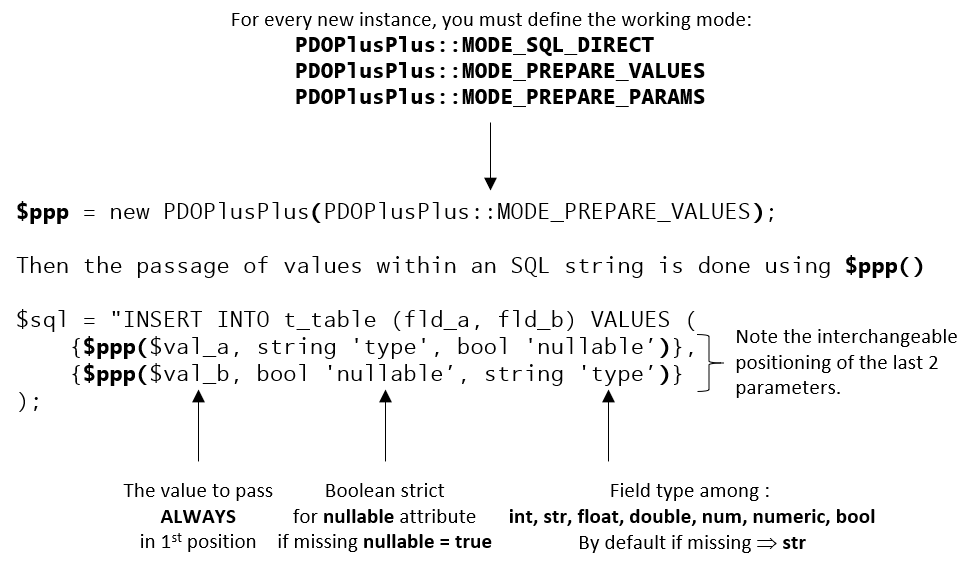
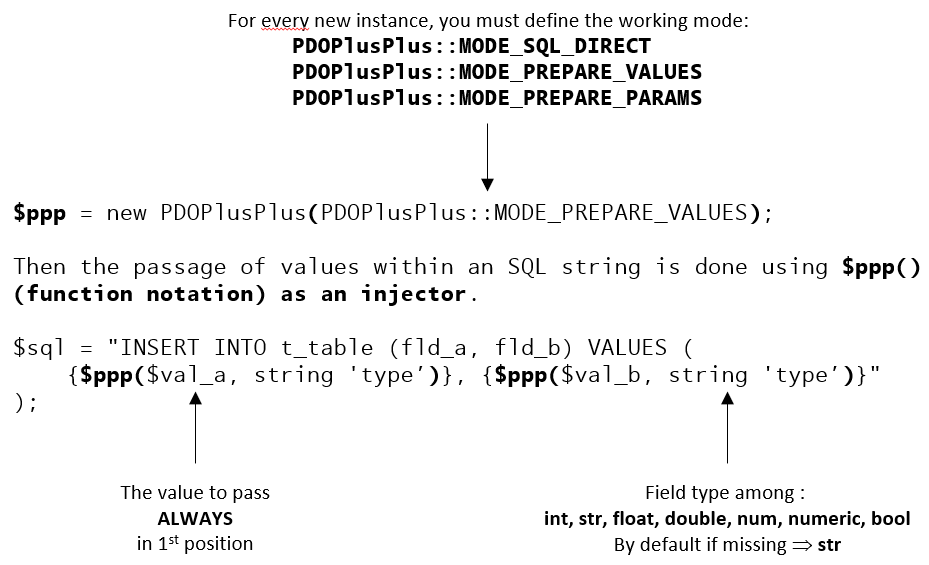
Documentation update

diff --git a/README.md b/README.md
@@ -1,27 +1,46 @@
 # **PDOPlusPlus : a new generation of PDO Wrapper**
 
-`2020-03-21` `PHP 7+`
+`2020-03-27` `PHP 7+`
 
 ## **A PHP full object PDO Wrapper in one class**
 
-`PDOPlusPlus` (alias `PPP`) is a one class PDO Wrapper for PHP with a revolutionary fluid SQL syntax. 
+`PDOPlusPlus` (alias `PPP`) is **a one class PDO Wrapper for PHP** with a
+ revolutionary fluid SQL syntax. 
 You do not have anymore to use PDO in a classical way, you can completely omit the notions of 
 `prepare()`, `bindValue()`, `bindParam()`. The usage of these mechanisms is now hidden by `PDOPlusPlus`. 
 All you have to do is to write directly a clean SQL query and inject directly your values.
 
 The engine, will automatically escape the values and will let you concentrate only on the SQL syntax.
 
+`PDOPlusPlus` is compliant with:
+- INSERT
+- UPDATE
+- DELETE
+- SELECT
+- STORED PROCEDURE
+
+For stored procedures, you'll be able to use any `IN`, `OUT` or `INOUT` params.<br>
+`PDOPlusPlus` is also fully compatible with those returning multiple dataset
+ at once.
+
 If you read french, you will find a complete tutorial with tons of explanations on my blog : [rawsrc](https://www.developpez.net/forums/blogs/32058-rawsrc/b9083/pdoplusplus-ppp-nouvelle-facon-dutiliser-pdo/)
      
- **THE CONCEPT**
+###**THE CONCEPT**
  
- The power of `PDOPlusPlus` is directly linked to the way the instance is called as a function using the PHP magic function `__invoke()`
- 
- Here's the global scheme for calling the class inside a plain SQL string:
+The power of `PDOPlusPlus` is directly linked to the way the instance is
+ called as a function using the PHP magic function `__invoke()`<br>
+All you have to choose is the right injector to write the SQL and at
+ the same time pass the different values to the query.<br>
+Here's the global scheme for the standard injector:
  
  ![PDOPlusPlus Concept](/PDOPlusPlusConcept.png)
- 
-**HOW TO USE IT**
+
+There's two other specific injectors for stored procedure having `OUT` or
+ `INOUT` params.
+ ![PDOPlusPlus Out](/PDOPlusPlusOut.png)
+ ![PDOPlusPlus InOut](/PDOPlusPlusInOut.png)
+  
+###**HOW TO USE IT**
 
 As written, `PDOPlusPlus` is as PDO Wrapper, so it will have to connect to your database using PDO of course.
 So the first step is to provide the connexion parameters to the class. It's highly recommended to use constants : 
@@ -33,6 +52,8 @@ define('DB_USER', '');       // please fill here
 define('DB_PWD', '');        // please fill here
 define('DB_PORT', '3306');
 define('DB_TIMEOUT', '5');
+define('DB_PDO_PARAMS', []);
+define('DB_DSN_PARAMS', []);
 ```
 You can also add some personal parameters to the connexion, see `private static function connect()`.
 
@@ -46,11 +67,12 @@ create or replace table db_pdo_plus_plus.t_video
 	video_multilingual tinyint(1) default 0 not null,
 	video_chapter int null,
 	video_year int not null,
-	video_summary text null
+	video_summary text null,
+	video_stock int not null
 );   
 ``` 
 
-**SAMPLE DATASET**
+###**SAMPLE DATASET**
 ```php
 $data = [[
     'title'        => "The Lord of the Rings - The Fellowship of the Ring",
@@ -58,24 +80,27 @@ $data = [[
     'multilingual' => true,
     'chapter'      => 1,
     'year'         => 2001,
-    'summary'      => null
+    'summary'      => null,
+    'stock'        => 10
 ], [
-    'title'        => "The Lord of the Rings - The Two Towers",
+    'title'        => "The Lord of the Rings - The two towers",
     'support'      => 'BLU-RAY',
     'multilingual' => true,
     'chapter'      => 2,
     'year'         => 2002,
-    'summary'      => null
+    'summary'      => null,
+    'stock'        => 0
 ], [
-    'title'        => "The Lord of the Rings - The Return of the King",
+    'title'        => "The Lord of the Rings - The return of the King",
     'support'      => 'DVD',
     'multilingual' => true,
     'chapter'      => 3,
     'year'         => 2003,
-    'summary'      => null
-]];
+    'summary'      => null,
+    'stock'        => 1
+]];;
 ```
-
+###**3 DIFFERENT MODES**
 You can work in 3 different modes with `PDOPlusPlus`.
 - `PDOPlusPlus::MODE_SQL_DIRECT` : omits the preparation mechanism and escape directly the values
 - `PDOPlusPlus::MODE_PREPARE_VALUES` : use the preparation mechanism with `bindValue()`
@@ -83,8 +108,7 @@ You can work in 3 different modes with `PDOPlusPlus`.
 
 You must define the mode when you create a new instance of `PDOPlusPlus`.
 
-**ADD A RECORD**
-
+###**ADD A RECORD**
 Let's add the first movie into the database using `PDOPlusPlus`:
 I will use the SQL DIRECT mode omitting the `PDOStatement` step. 
 ```php
@@ -93,38 +117,36 @@ include 'PDOPlusPlus.php';
 $ppp  = new PDOPlusPlus(PDOPlusPlus::MODE_SQL_DIRECT); // or shortly : new PPP(PPP::MODE_SQL_DIRECT); 
 $film = $data[0];
 $sql  = <<<sql
-INSERT INTO t_video (video_title, video_support, video_multilingual, video_chapter, video_year, video_summary)
+INSERT INTO t_video (video_title, video_support, video_multilingual, video_chapter, video_year, video_summary, video_stock)
      VALUES ({$ppp($film['title'], false)}, {$ppp($film['support'])}, {$ppp($film['multilingual'], 'bool', false)},
-             {$ppp($film['chapter'], 'int')}, {$ppp($film['year'], 'int', false)}, {$ppp($film['summary'])})
+             {$ppp($film['chapter'], 'int')}, {$ppp($film['year'], 'int', false)}, {$ppp($film['summary'])}, {$ppp($film['stock'])})
 sql;
-$new_id = $ppp->insert($sql);
+$new_id = $ppp->insert($sql);   // $new_id = 1 (lastInsertId())
 ```
-
-Let's add the second movie into the database using `PDOPlusPlus`:
-I will use a `PDOStatement` based on values (`->bindValue()`). 
+Let's add the second movie into the database using `PDOPlusPlus`: I will use a `PDOStatement` based on values (`->bindValue()`). 
 ```php
 include 'PDOPlusPlus.php';
 
 $ppp  = new PDOPlusPlus(PDOPlusPlus::MODE_PREPARE_VALUES); // or shortly : new PPP(PPP::MODE_PREPARE_VALUES);
 $film = $data[1];
 $sql  = <<<sql
-INSERT INTO t_video (video_title, video_support, video_multilingual, video_chapter, video_year, video_summary)
+INSERT INTO t_video (video_title, video_support, video_multilingual
+, video_chapter, video_year, video_summary, video_stock)
      VALUES ({$ppp($film['title'], false)}, {$ppp($film['support'])}, {$ppp($film['multilingual'], 'bool', false)},
-             {$ppp($film['chapter'], 'int')}, {$ppp($film['year'], 'int', false)}, {$ppp($film['summary'])})
+             {$ppp($film['chapter'], 'int')}, {$ppp($film['year'], 'int', false)}, {$ppp($film['summary'])}, {$ppp($film['stock'])})
 sql;
-$new_id = $ppp->insert($sql);
+$new_id = $ppp->insert($sql);   // $new_id = 2 (lastInsertId())
 ```
 Look at he the SQL generated internally by `PDOPlusPlus` : 
 ```sql
-INSERT INTO t_video (video_title, video_support, video_multilingual, video_chapter, video_year, video_summary) 
-     VALUES (:XMEDem6153, :oASqvP7440, :mbfaTY4236, :FJzRWx7446, :FVHvqL4843, :tcCvZo8956);
+INSERT INTO t_video (video_title, video_support, video_multilingual, video_chapter, video_year, video_summary, video_stock) 
+     VALUES (:XMEDem6153, :oASqvP7440, :mbfaTY4236, :FJzRWx7446, :FVHvqL4843, :tcCvZo8956, :JRtazM4176);
 ```
-
 Let's truncate the table and then add the whole list of films at once.
 This time, I will use a `PDOStatement` based on references (`->bindParam()`) as there are many iterations to do.
 
-Please note, to pass the references to the `PDOPlusPlus` instance, you **MUST** use the reference injector
-returned by `->modePrepareParamsInInjector();`. Otherwise it will not work.
+Please note, to pass the references to the `PDOPlusPlus` instance, you **MUST** use a specific reference injector
+returned by `->injector();`. Otherwise it will not work.
 ```php
 include 'PDOPlusPlus.php';
 // when there's no parameters, use the MODE_SQL_DIRECT
@@ -132,46 +154,42 @@ $ppp = new PPP(PPP::MODE_SQL_DIRECT);
 $ppp->execute('TRUNCATE TABLE t_video');
 
 $ppp = new PPP(PPP::MODE_PREPARE_PARAMS);
-$inj = $ppp->modePrepareParamsInInjector();   // to pass references you MUST use this reference injector 
+$in  = $ppp->modePrepareParamsInInjector();   // to pass references you **MUST** use this reference injector 
 $sql = <<<sql
-INSERT INTO t_video (video_title, video_support, video_multilingual, video_chapter, video_year, video_summary)
-     VALUES ({$inj($title)}, {$inj($support)}, {$inj($multilingual, 'bool')},
-             {$inj($chapter, 'int')}, {$inj($year, 'int')}, {$inj($summary)})
+INSERT INTO t_video (video_title, video_support, video_multilingual, video_chapter, video_year, video_summary, video_stock)
+     VALUES ({$in($title)}, {$in($support)}, {$in($multilingual, 'bool')}, {$in($chapter, 'int')}, {$in($year, 'int')}, 
+             {$in($summary)}, {$in($stock)})
 sql;
 foreach ($data as $film) {
     extract($film); // destructuring the array into components used to populate the references declared just above
     $ppp->insert($sql); 
 }
 ``` 
-
-**UPDATE A RECORD**
-
+###**UPDATE A RECORD**
 Very simple : 
 ```php
 include 'PDOPlusPlus.php';
 $support = 'DVD';
 $id      = 1;
 
-$ppp  = new PPP(PPP::MODE_PREPARE_VALUES);
-$sql  = <<<sql
+$ppp = new PPP(PPP::MODE_PREPARE_VALUES);
+$sql = <<<sql
 UPDATE t_video SET video_support = {$ppp($support)} WHERE video_id = {$ppp($id, 'int')}
 sql;
-$new_id = $ppp->update($sql);
+$nb  = $ppp->update($sql);  // nb of affected rows
 ```
-
-**DELETE A RECORD** 
+###**DELETE A RECORD** 
 ```php
 include 'PDOPlusPlus.php';
 $id = 1;
 
-$ppp  = new PPP(PPP::MODE_PREPARE_VALUES);
-$sql  = <<<sql
+$ppp = new PPP(PPP::MODE_PREPARE_VALUES);
+$sql = <<<sql
 DELETE FROM t_video WHERE video_id = {$ppp($id, 'int')}
 sql;
-$new_id = $ppp->delete($sql);
+$nb  = $ppp->delete($sql); // nb of affected rows
 ```
-
-**SELECT A RECORD** 
+###**SELECT A RECORD** 
 ```php
 include 'PDOPlusPlus.php';
 
@@ -182,7 +200,6 @@ SELECT * FROM t_video WHERE video_id = {$ppp($id, 'int')}
 sql;
 $data = $ppp->select($sql);
 ```
-
 ```php
 include 'PDOPlusPlus.php';
 
@@ -192,6 +209,8 @@ SELECT * FROM t_video WHERE video_support LIKE {$ppp('%RAY%')}
 sql;
 $data = $ppp->select($sql);
 ```
+##**STORED PROCEDURE**
+
 
 Hope this will help you to produce in a more comfortable way a better SQL code and use PDO natively in your PHP code.
 
